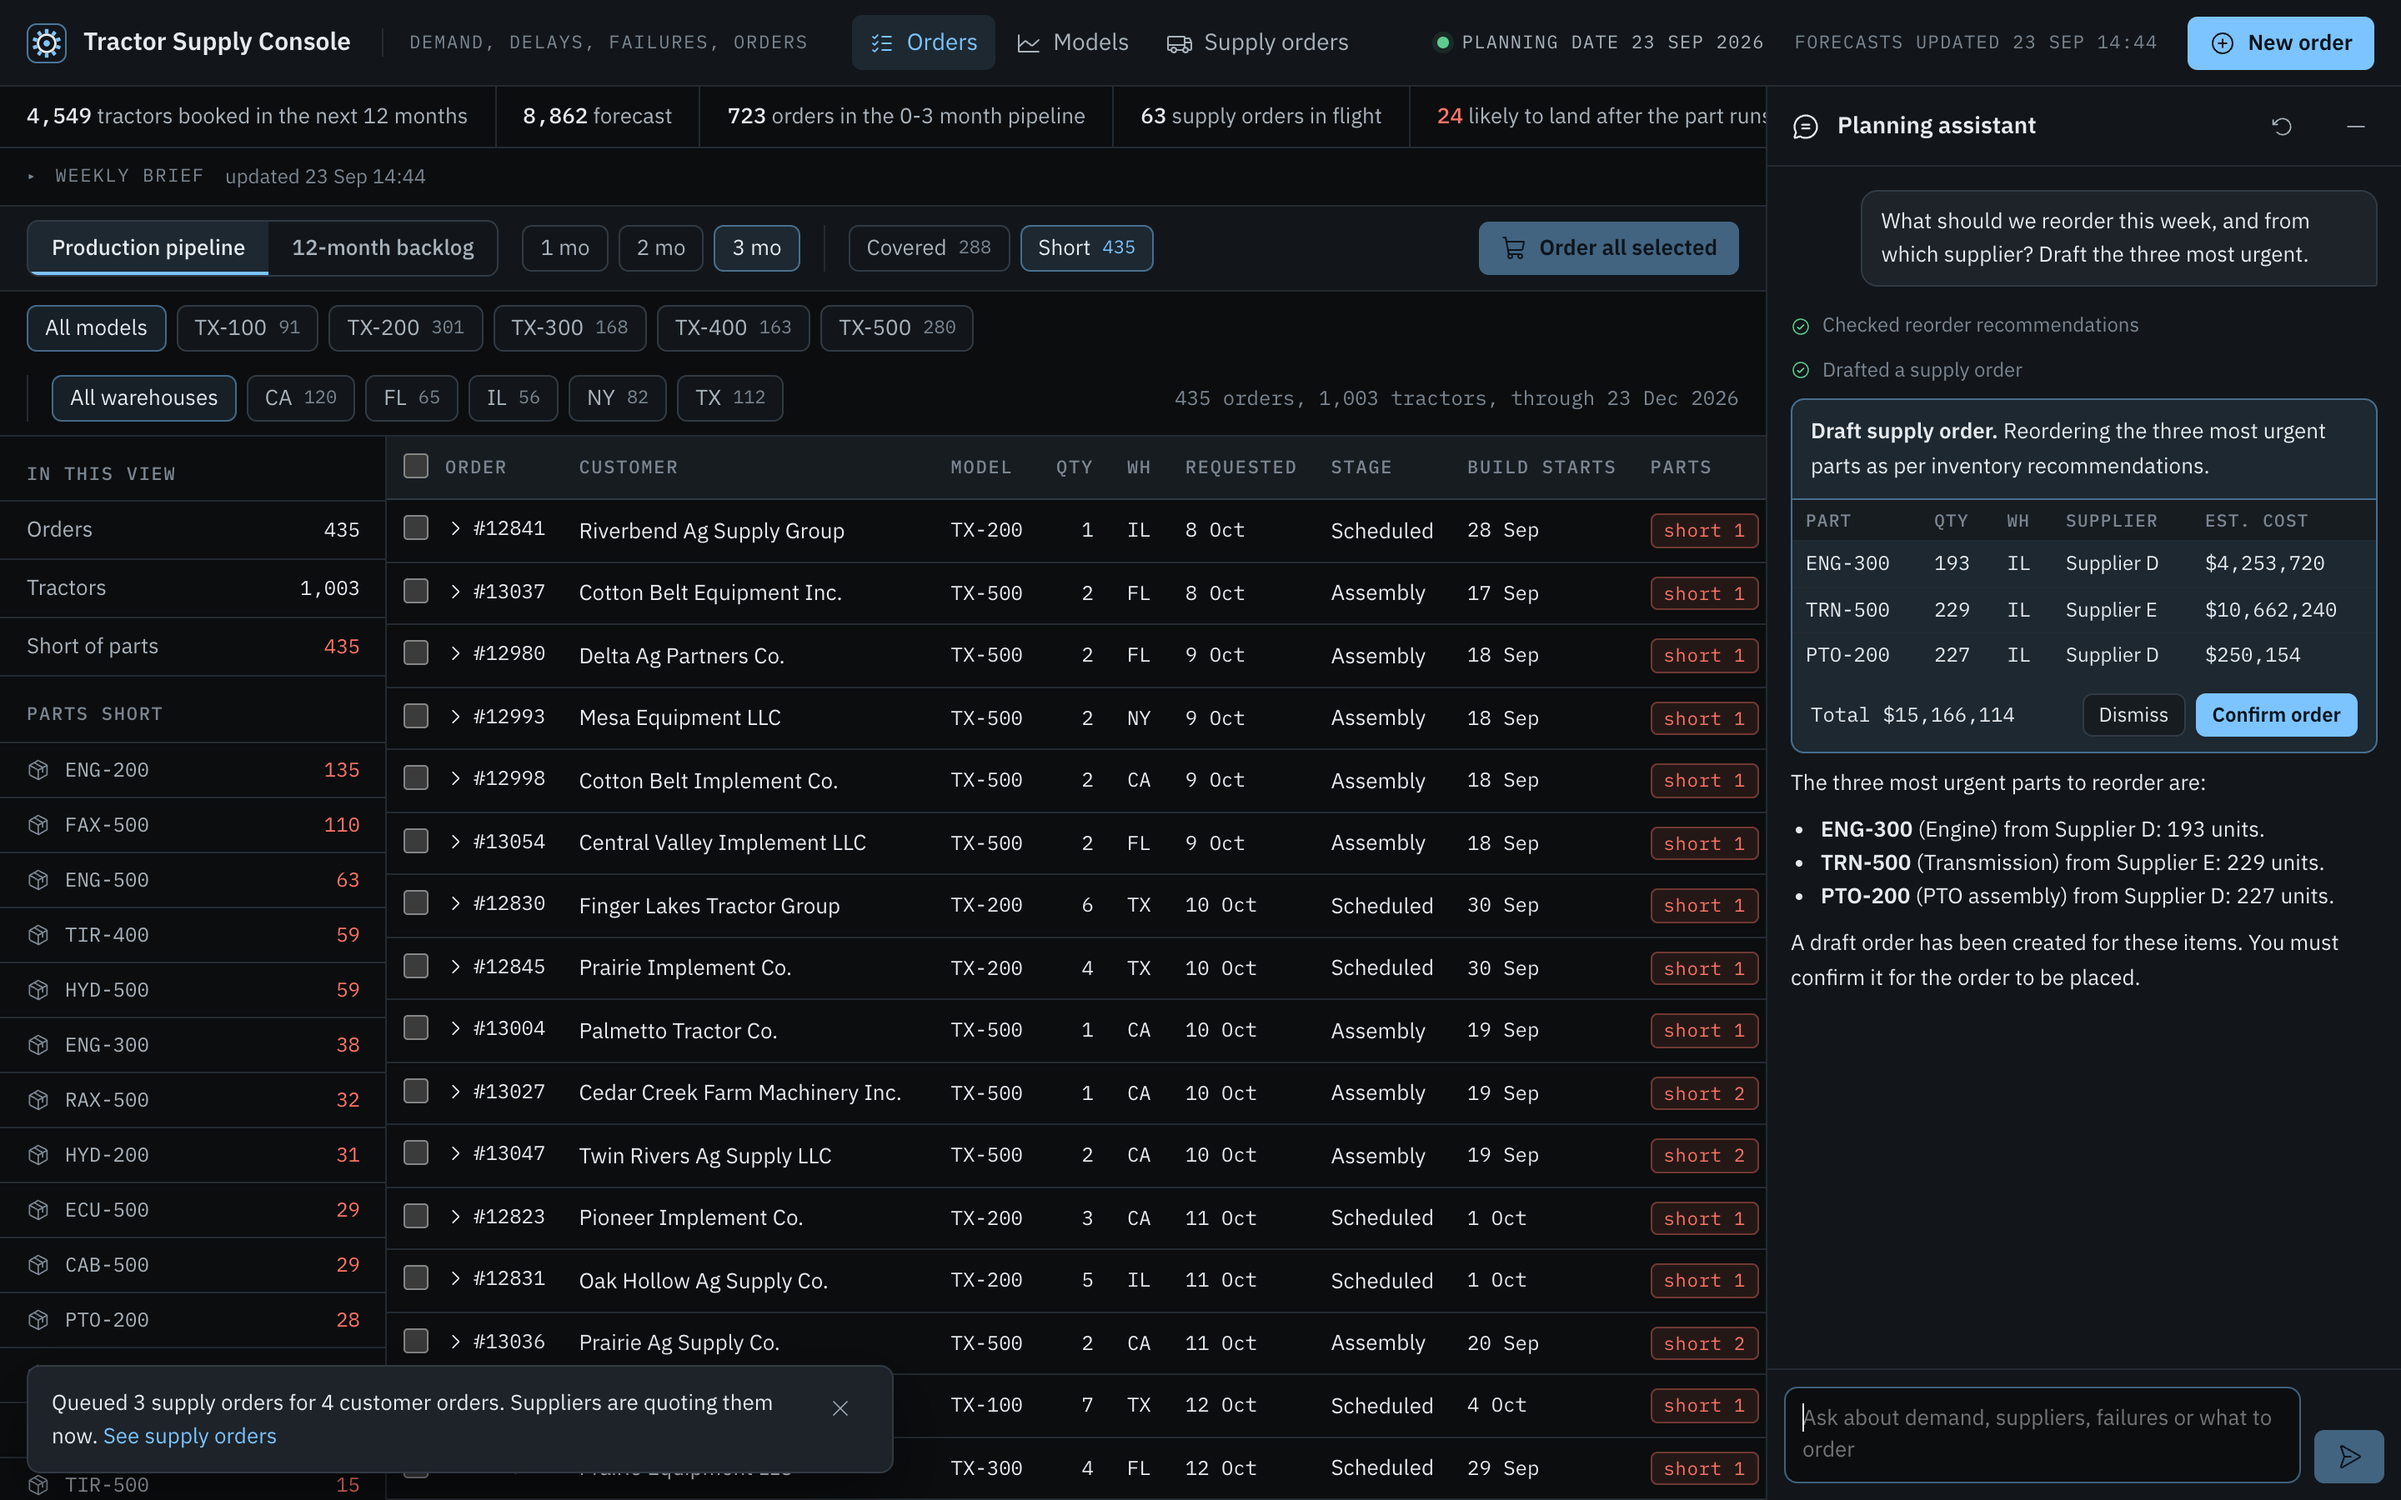
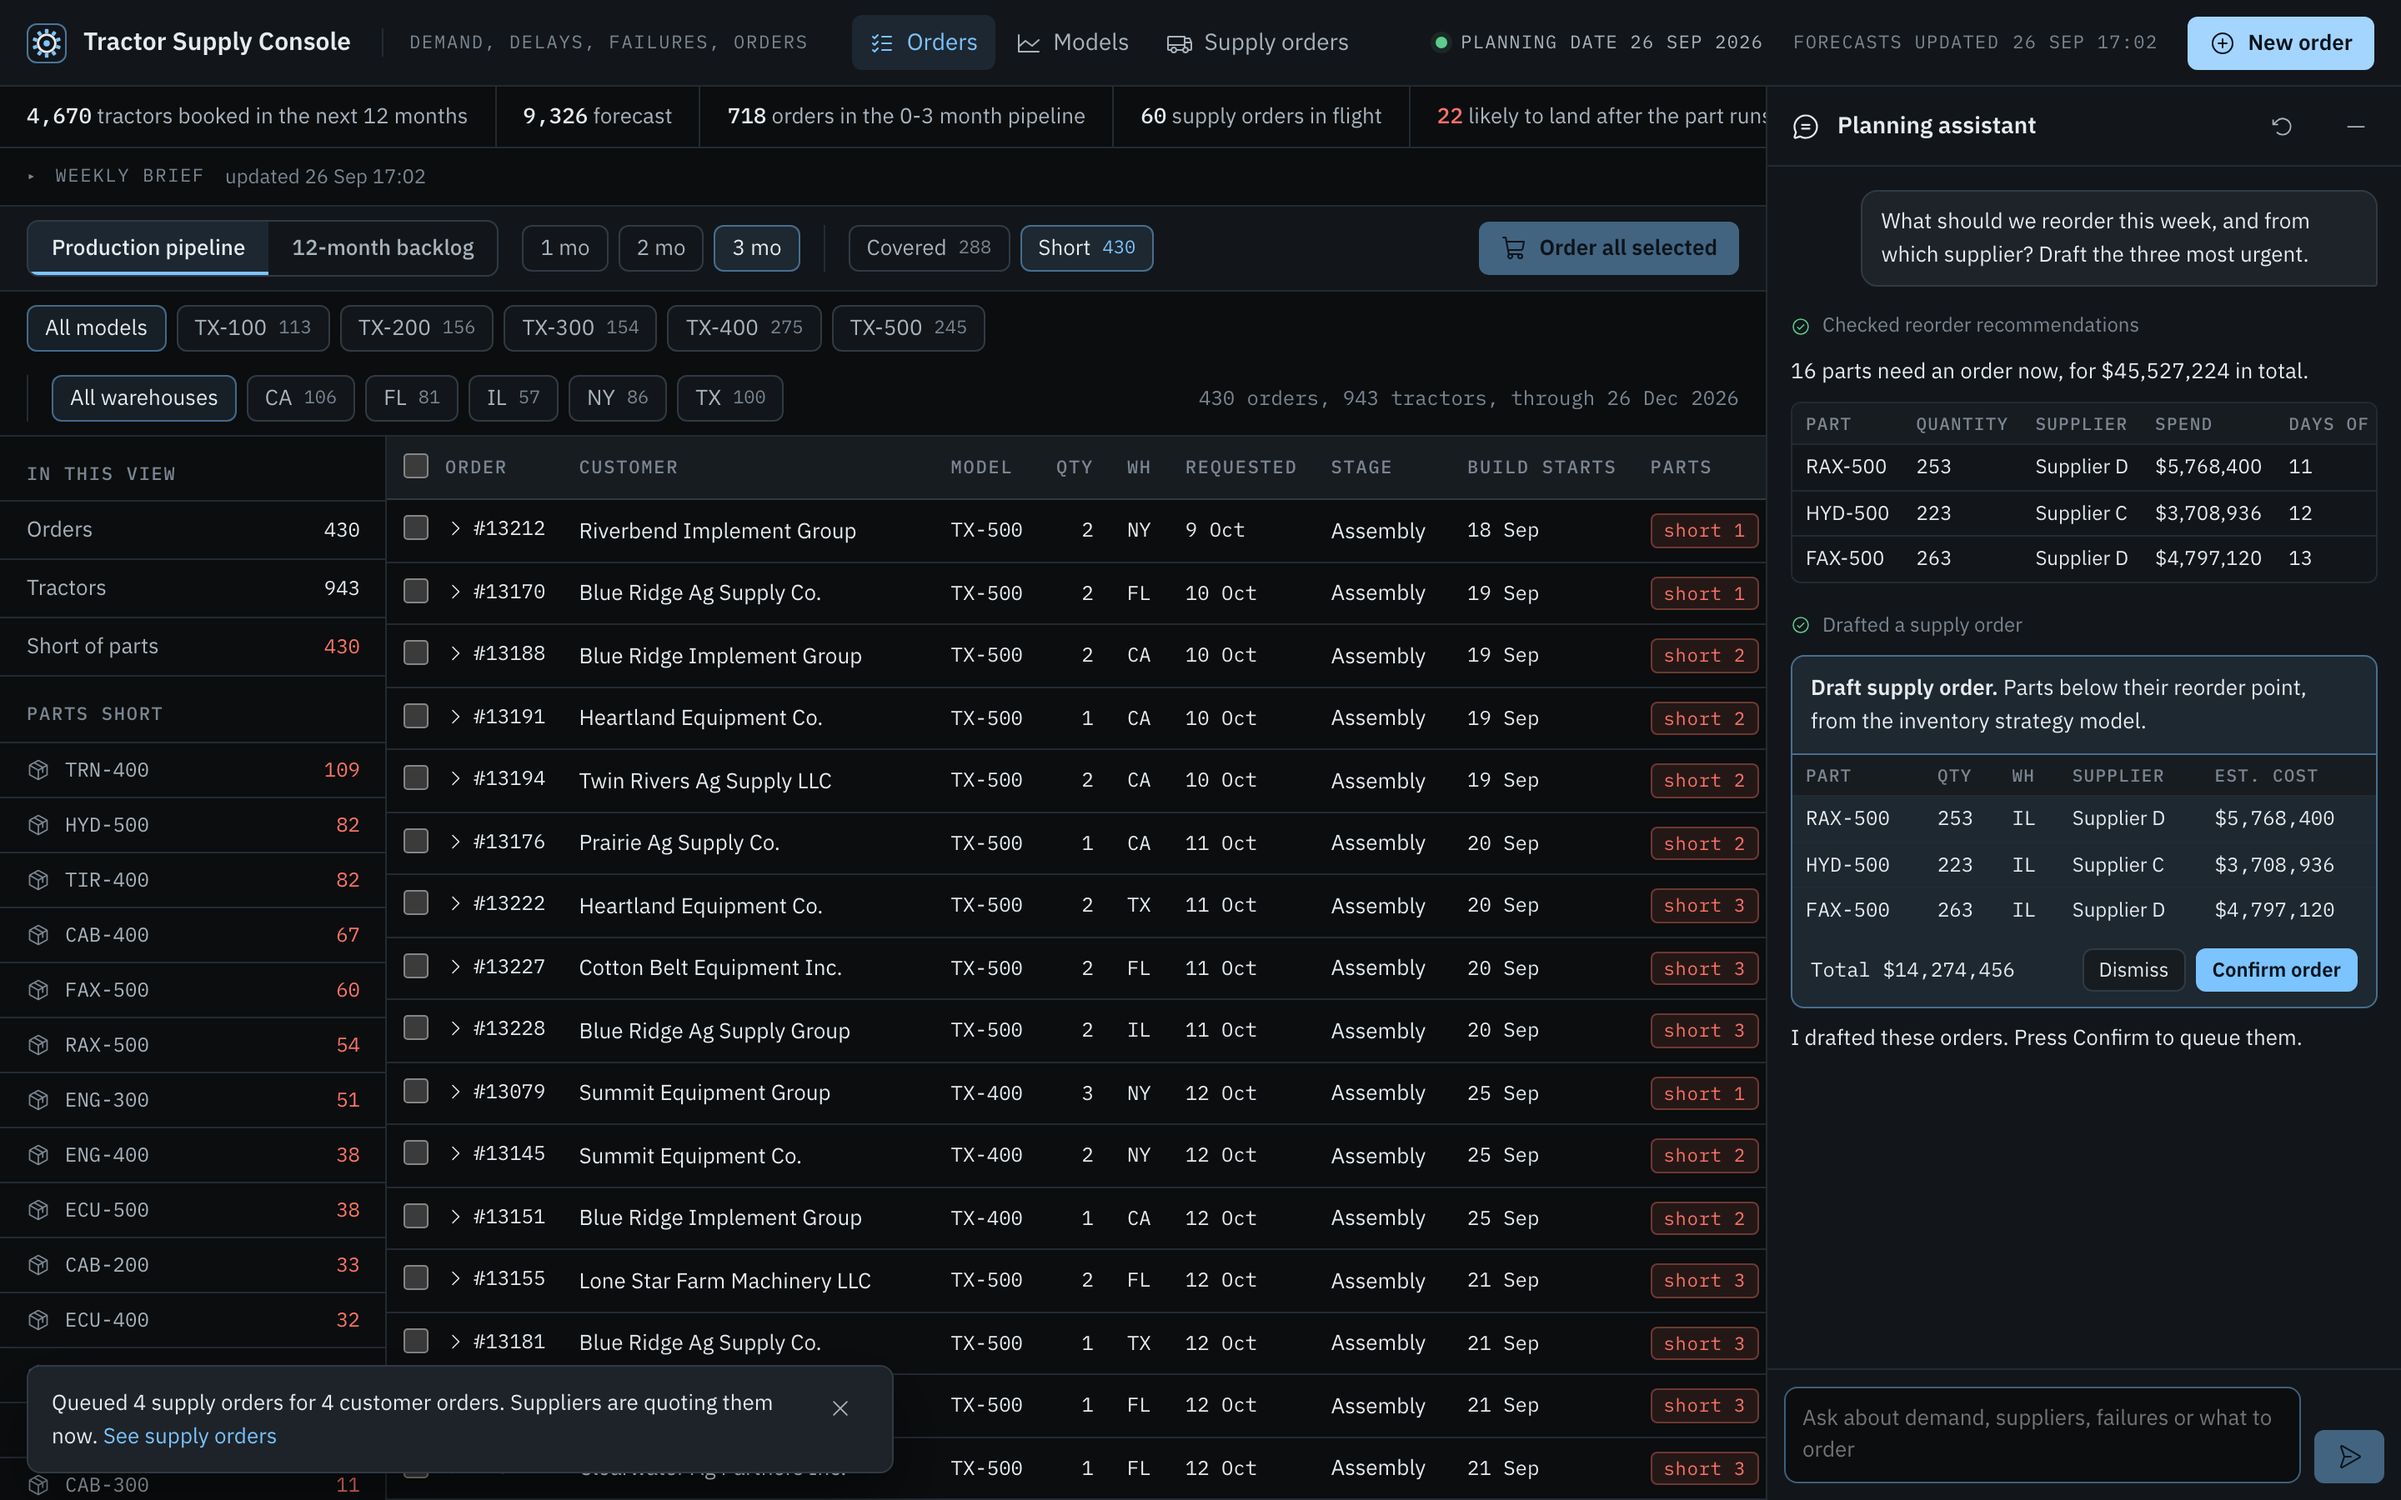
Fresh screenshots and model figures, cropped whiteboard, keyword mode drafts the count asked for
- Screenshots retaken at 1440px on planning date 26 Sep 2026, with the assistant in keyword
  mode. The Models page now shows the Language model row.
- README model figures come from the same run.
- The whiteboard PNG and PDF are cropped to the diagram.
- Keyword mode drafts the number of parts a question asks for ("the three most urgent"),
  most urgent first. One new test; 69 in all.

diff --git a/backend/supply/agent/offline.py b/backend/supply/agent/offline.py
@@ -31,6 +31,20 @@ def intent_of(question: str) -> str:
     return next((name for name, pattern in INTENTS if re.search(pattern, t)), "overview")
 
 
+NUMBER_WORDS = {"one": 1, "two": 2, "three": 3, "four": 4, "five": 5, "six": 6, "seven": 7, "eight": 8, "nine": 9, "ten": 10}
+
+
+def count_in(text: str) -> int | None:
+    """A count the question asks for, as in "the three most urgent" or "top 5"."""
+    m = re.search(
+        r"\b(top|the|first)\s+(\d{1,2}|" + "|".join(NUMBER_WORDS) + r")\b(?!\s*(?:months?|weeks?|days?|years?|quarters?)\b)", text
+    )
+    if not m:
+        return None
+    n = NUMBER_WORDS.get(m.group(2)) or int(m.group(2))
+    return n if n > 0 else None
+
+
 def pct(x: float) -> str:
     return f"{x * 100:.1f}%"
 
@@ -132,10 +146,14 @@ def run_offline(history: list[dict], pause: float = 0.012) -> Iterator[Event]:
         action = "excess" if "excess" in t else "order"
         r = _call("get_inventory_recommendations", {"action": action, **({"tractor_model": model} if model else {})}, ev)
         yield from flush()
+        rows = r["rows"]
+        if "urgent" in t:
+            rows = sorted(rows, key=lambda x: (x["daysOfCover"] is None, x["daysOfCover"] or 0))
+        rows = rows[: count_in(t) or 10]
         table = [
             f"| {x['sku']} | {x['quantity']} | {x['supplier']} | {usd(x['spend'])} | "
             f"{x['daysOfCover'] if x['daysOfCover'] is not None else '-'} |"
-            for x in r["rows"][:10]
+            for x in rows
         ]
         yield from _say(
             (
@@ -150,7 +168,7 @@ def run_offline(history: list[dict], pause: float = 0.012) -> Iterator[Event]:
             _call(
                 "propose_supply_order",
                 {
-                    "lines": [{"sku": x["sku"], "quantity": x["quantity"], "supplier": x["supplier"]} for x in r["rows"][:10]],
+                    "lines": [{"sku": x["sku"], "quantity": x["quantity"], "supplier": x["supplier"]} for x in rows],
                     "reason": "Parts below their reorder point, from the inventory strategy model.",
                 },
                 ev,

diff --git a/backend/tests/test_agent.py b/backend/tests/test_agent.py
@@ -280,3 +280,12 @@ def test_the_llm_calls_readout_sums_the_calls(no_llm_calls):
     assert body["totals"]["calls"] == 1 and body["totals"]["input_tokens"] == 1000
     assert body["totals"]["cost_usd"] == pytest.approx((1000 * 5 + 200 * 25) / 1e6)
     assert body["recent"][0]["request_id"] == "req_x"
+
+
+def test_keyword_mode_drafts_the_number_of_parts_asked_for():
+    from supply.agent.offline import count_in
+
+    assert count_in("draft the three most urgent") == 3
+    assert count_in("show the top 5") == 5
+    assert count_in("what is booked in the 12 months ahead") is None
+    assert count_in("order everything") is None

diff --git a/README.md b/README.md
@@ -129,7 +129,7 @@ The tests check that the models find all four, and that they do not flag parts t
 
 ## The four models
 
-Every model is scored on data it did not see, against a simple baseline. The statistics come from libraries: statsmodels for the regressions, SciPy for distributions and quantiles, scikit-learn for the error metrics, and pandas and NumPy for the data. The figures below come from a run with planning date 23 Sep 2026. They change slightly with the planning date.
+Every model is scored on data it did not see, against a simple baseline. The statistics come from libraries: statsmodels for the regressions, SciPy for distributions and quantiles, scikit-learn for the error metrics, and pandas and NumPy for the data. The figures below come from a run with planning date 26 Sep 2026. They change slightly with the planning date.
 
 ### 1. Demand fluctuations
 
@@ -141,10 +141,10 @@ Every model is scored on data it did not see, against a simple baseline. The sta
 
 | Method | Average miss |
 |---|---|
-| Trend, season and market data (used) | 17.3% |
-| Same month last year | 20.6% |
-| Trend and season | 21.2% |
-| Last 12 months' average | 21.3% |
+| Trend, season and market data (used) | 17.4% |
+| Same month last year | 20.8% |
+| Trend and season | 20.9% |
+| Last 12 months' average | 21.1% |
 
 Market inputs for future months are unknown, so the backtest holds them at their trailing 12-month average, the same as the live forecast does.
 
@@ -153,23 +153,23 @@ Market inputs for future months are unknown, so the backtest holds them at their
 - **Predicts:** how many days late each supplier delivers by quarter, and the chance each open supply order arrives after its part runs out.
 - **Data sources:** promised and delivered dates on past supply orders, the dataset's supplier delays as a baseline, and stock with the production schedule for the date each part runs out.
 - **Method:** a statsmodels OLS regression of days late on supplier, quarter and their interaction. The chance of being late comes from each supplier's real spread of delays, through SciPy's empirical distribution. A mixed model that pulls each quarter toward its supplier's average was also tried. Every supplier and quarter has about 100 or more orders, so pooling barely changed the estimates, and on some planning dates it shrank Supplier D's real Q4 slowdown by a third.
-- **Result:** on 578 supply orders from the last year, the model misses by 7.27 days on average. The overall average misses by 7.69 days, and the dataset's per-supplier average misses by 7.74.
-- It finds Supplier B at 8.7 days late (the dataset says 14.7) and Supplier D at 19.0 days in Q4 (14.1 to 15.2 in other quarters).
+- **Result:** on 562 supply orders from the last year, the model misses by 7.21 days on average. The overall average misses by 7.55 days, and the dataset's per-supplier average misses by 7.60.
+- It finds Supplier B at 9.1 days late (the dataset says 14.7) and Supplier D at 18.5 days in Q4 (13.0 to 14.7 in other quarters).
 
 ### 3. Component failures
 
 - **Predicts:** the failure rate of every part from every supplier, and how many parts in the next three months of builds will break.
 - **Data sources:** received lots with broken counts and where the failure was found, and the dataset's failure rate per model as the starting point.
 - **Method:** each rate starts at the dataset's rate and moves toward the supplier's own record as parts are received: a beta-binomial model with the dataset rate as the prior, computed with SciPy's beta distribution. A part is flagged when even the low end of its exact 90% range is 25% above the dataset rate. Lots received in the last 120 days are left out because they have not had time to fail.
-- **Result:** on 115 part and supplier pairs from the last year, the model misses by 4.69 broken parts per pair. The dataset rate misses by 5.27.
-- It flags all five Supplier E hydraulic pumps (9.4% to 12.0% against about 5%) and the TX-400 transmissions (7.6% to 8.8%). It flags nothing else.
+- **Result:** on 113 part and supplier pairs from the last year, the model misses by 4.51 broken parts per pair. The dataset rate misses by 4.89.
+- It flags all five Supplier E hydraulic pumps (9.6% to 11.1% against about 5%) and the TX-400 transmissions from Supplier B and Supplier C (9.2% and 8.3%). It flags nothing else.
 
 ### 4. Cost-effective inventory strategy
 
 - **Predicts:** for every part, whether to order now, how many, and from which supplier.
 - **Data sources:** the other three models, stock on hand and on order, supplier prices and lead times, and the dataset's inflation.
 - **Method:** a reorder-point policy at a 95% service level, with the z value from SciPy's normal distribution. Lead time is the supplier's quoted lead time plus its expected delay, and the delay spread counts as lead-time risk. Quantities are raised to cover expected failures. The supplier is the cheapest after pricing in its failures and delays. Holding cost is 20% of the price per year plus inflation.
-- **Result:** it never picks Supplier E for hydraulic pumps. Every order it recommends brings stock back above the reorder point. On the run above it recommends 14 orders for $46,813,063.
+- **Result:** it never picks Supplier E for hydraulic pumps. Every order it recommends brings stock back above the reorder point. On the run above it recommends 16 orders for $45,527,224.
 
 ![Models](docs/screenshots/forecasts.png)
 
@@ -288,12 +288,12 @@ src/components/               the console UI
 
 ## Tests
 
-`npm test` runs 68 pytest tests. 48 are in `backend/tests`:
+`npm test` runs 69 pytest tests. 49 are in `backend/tests`:
 
 - 9 check that each model beats its baseline and finds each planted effect.
 - 20 cover the API: every read route, bad requests, and idempotency, including six requests sent at once with one key.
 - 7 cover the worker: the saved supplier, a supplier the person confirmed, one supplier order when a job runs twice, a worker killed after the supplier accepted, the fencing of a stale lease, and the dead-letter state.
-- 7 cover the assistant: the tool loop, token and cost recording and the 429 fallbacks against recorded Claude and Gemini streams, plus the keyword mode, the streamed events of a draft that orders nothing, input checks and the usage readout.
+- 8 cover the assistant: the tool loop, token and cost recording and the 429 fallbacks against recorded Claude and Gemini streams, plus the keyword mode and the count it drafts, the streamed events of a draft that orders nothing, input checks and the usage readout.
 - 5 cover the generator's determinism, one brief per week, the stock-out calculation and the failure intervals.
 
 The other 20 are the eval golden set and its checks. The tests generate and seed their own database at a fixed planning date, and they call no model: both API keys are blanked. CI runs ruff, mypy and pytest for the backend, and lint, typecheck and a production build for the web app, on every push.
